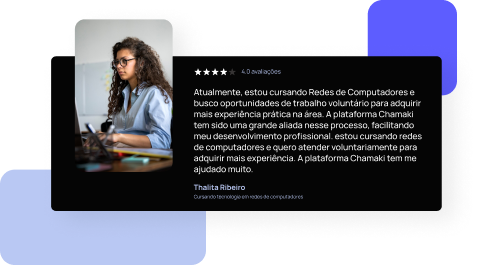
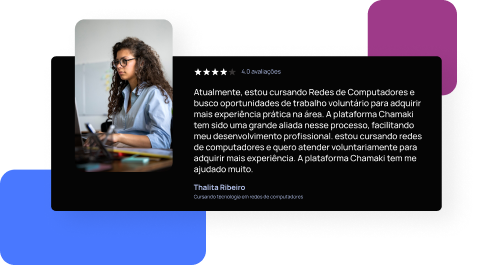
imagens ranking

Changed region(s): [[0.0, 0.634, 0.4384, 1.0], [0.7599, 0.0, 0.9645, 0.3623]]

diff --git a/src/paginas/home.tsx b/src/paginas/home.tsx
@@ -36,7 +36,7 @@ function Home() {
     },
     {
       id: "4R",
-      image: "ranking1.png",
+      image: "ranking4.png",
     },
   ];
 
